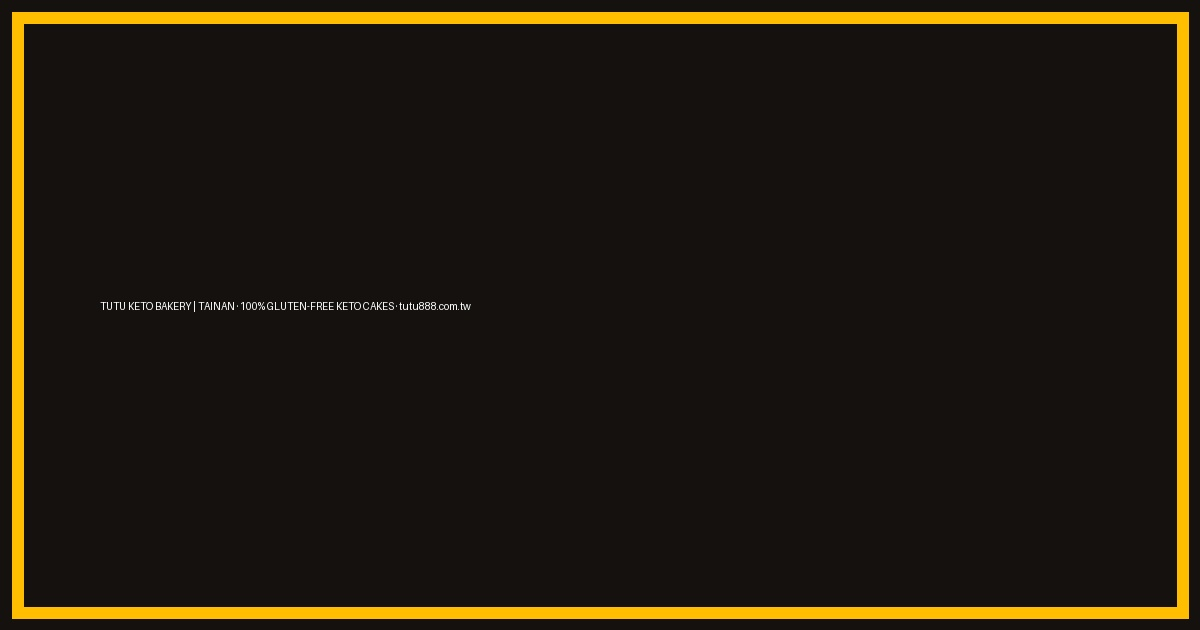
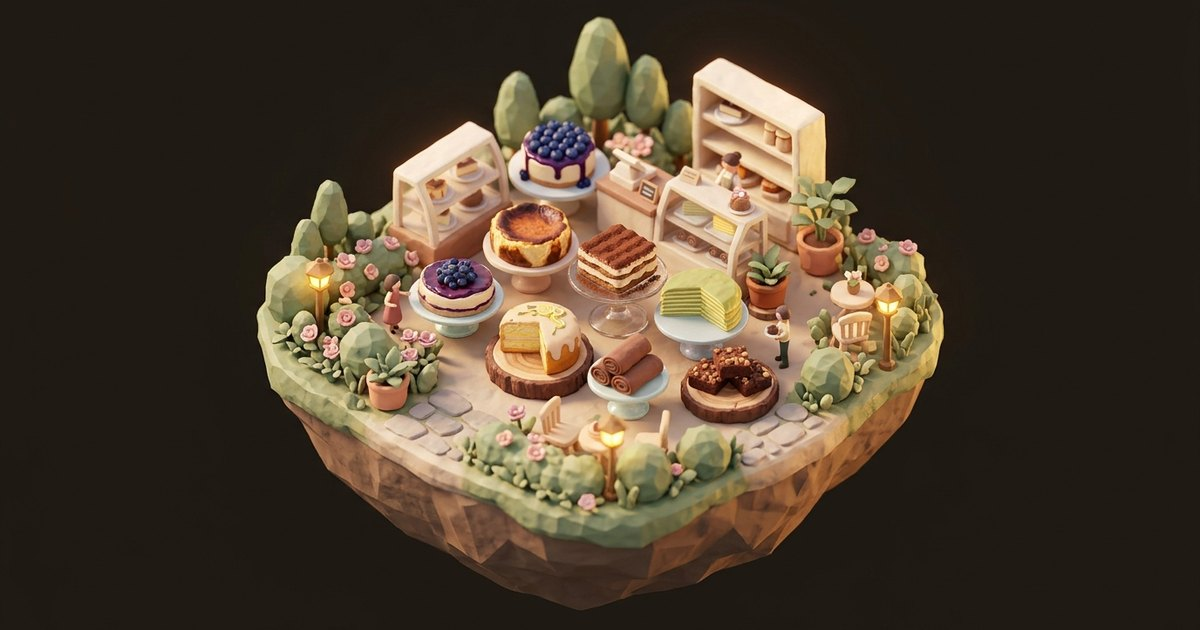
Add files via upload

diff --git a/index.html b/index.html
@@ -11,8 +11,15 @@
   <meta property="og:url" content="https://tutu888.com.tw/" />
   <meta property="og:title" content="圖圖生酮蛋糕店｜41款正式價格菜單・台南專送＆本島黑貓宅配預約官網" />
   <meta property="og:description" content="滑動探索 5 大 3D 微縮烘焙島嶼，即時試算 41 款生酮甜點金額、滿 2,000 免運門檻、週四五黑貓出貨日與一鍵複製匯款訂購單！" />
-  <meta property="og:type" content="webs    <meta property="og:image" content="https://tutu888.com.tw/og-cover.jpg" />
-  ite" />
+  <meta property="og:type" content="website" />
+  <meta property="og:image" content="https://tutu888.com.tw/og-cover.jpg" />
+  <meta property="og:image:width" content="1200" />
+  <meta property="og:image:height" content="630" />
+  <meta property="og:image:alt" content="圖圖生酮蛋糕店 3D 微縮烘焙世界：台南仁德無麩質低醣生酮乳酪、巴斯克與千層蛋糕預約官網" />
+  <meta name="twitter:card" content="summary_large_image" />
+  <meta name="twitter:title" content="圖圖生酮蛋糕店｜41款正式價格菜單・台南專送＆本島黑貓宅配預約官網" />
+  <meta name="twitter:description" content="純天然無麩質生酮甜點，支援台南仁德自取、大台南當日汽車專送與本島黑貓滿 $2,000 免運！" />
+  <meta name="twitter:image" content="https://tutu888.com.tw/og-cover.jpg" />
 
   <link rel="preconnect" href="https://fonts.googleapis.com" />
   <link rel="preconnect" href="https://fonts.gstatic.com" crossorigin />
@@ -1017,6 +1024,28 @@
       'use strict';
 
       // -------------------------------------------------------------------
+      // 0. GA4 KEY EVENTS TRACKING HOOK (填入 G-XXXXXXXXXX 即自動啟用)
+      // -------------------------------------------------------------------
+      var GA4_MEASUREMENT_ID = '';
+      if (GA4_MEASUREMENT_ID && /^G-[A-Z0-9]+$/i.test(GA4_MEASUREMENT_ID)) {
+        var gs = document.createElement('script');
+        gs.async = true;
+        gs.src = 'https://www.googletagmanager.com/gtag/js?id=' + GA4_MEASUREMENT_ID;
+        document.head.appendChild(gs);
+        window.dataLayer = window.dataLayer || [];
+        window.gtag = function () { window.dataLayer.push(arguments); };
+        window.gtag('js', new Date());
+        window.gtag('config', GA4_MEASUREMENT_ID);
+      }
+      function trackGAEvent(eventName, params) {
+        try {
+          if (typeof window.gtag === 'function') {
+            window.gtag('event', eventName, params || {});
+          }
+        } catch (e) {}
+      }
+
+      // -------------------------------------------------------------------
       // 1. 5-ISLAND SCROLL-WORLD NARRATIVES
       // -------------------------------------------------------------------
       var SCENES = [
@@ -1687,6 +1716,7 @@
             renderMenu();
             renderBookingPlanner();
             var found = MENU_ITEMS.filter(function (m) { return m.id === id; })[0];
+            trackGAEvent('add_to_cart', { item_id: id, item_name: found ? found.name : id, price: found ? found.price : 0 });
             showToast('🎂 已加入「' + (found ? found.name : id) + '（' + (found ? formatNT(found.price) : '') + '）」');
           });
         });
@@ -1813,6 +1843,7 @@
       var copyBankBtn = document.getElementById('btn-copy-bank');
       if (copyBankBtn) {
         copyBankBtn.addEventListener('click', function () {
+          trackGAEvent('copy_bank_account', { bank_code: '822' });
           safeCopyText('901562536425', '💳 已複製中國信託（822）帳號：901562536425');
         });
       }
@@ -2040,6 +2071,7 @@
         copyBtn.addEventListener('click', function () {
           var previewEl = document.getElementById('inquiry-preview');
           if (previewEl) {
+            trackGAEvent('copy_order_inquiry', { fulfill_mode: state.fulfillMode });
             safeCopyText(previewEl.value, '✅ 已複製訂購單！請私訊官方 LINE 小幫手確認檔期與匯款');
           }
         });
